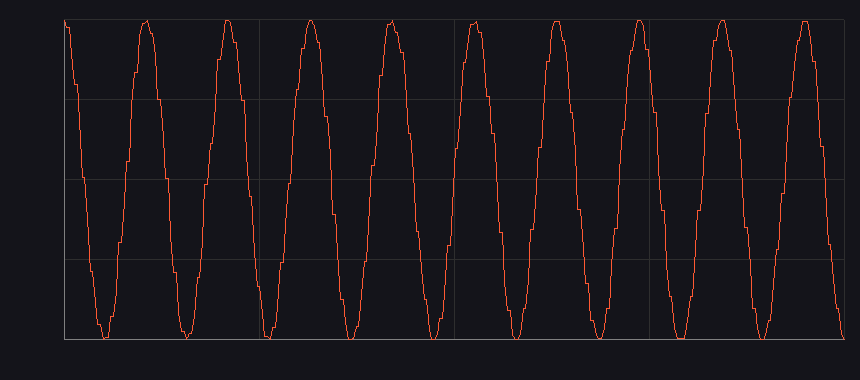
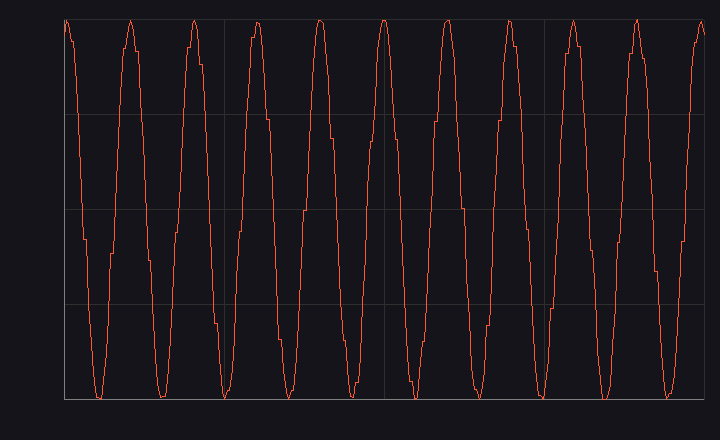
docs: comprehensive explanatory README + refresh/regenerate all visuals
Rewrite the README into a broad, explanatory document and bring every image current, all
generated by the add-on itself (headless), at consistent resolution.

README:
- New "How it works" section explaining the layered architecture (data model on Object.optics,
  tracer, mounts/alignment, sensor window, render, optics_api + MCP bridge).
- New Gallery up top (interferogram / 2-D fringes / Malus; Newton's rings / aberrated /
  corrected wavefront).
- Physics layer reframed around oracle verification; white-light packet figure added.
- Expanded quick-start (Assembly & Parts, Adaptive Optics, MCP bridge), worked example, agent/MCP
  section, and a fuller optics_api surface (swap_part, place_relative, ao_* ...).
- Roadmap notes the larger AO variants.

Visuals (all add-on output):
- hero.png (new): Mach-Zehnder beam loop, beams baked to emission tubes, EEVEE, tight frame.
- michelson-render.png: re-rendered (tight frame, thick glowing beams) for the worked example.
- interferogram.png / malus.png: regenerated via the Scan+Plot plotter (real Michelson OPD sweep;
  cos^2 Malus).
- white-light-fringes.png (new): broadband Michelson -> coherence-limited packet.
- (fringe-2d / newton-rings / wavefront-aberrated / wavefront-flattened were added in prior commits.)

diff --git a/README.md b/README.md
@@ -2,57 +2,89 @@
 
 > *"See a need, fill a need."* — Bigweld, *Robots* (2005)
 
-A Blender **4.2+ / 5.x** add-on for **designing, simulating, aligning, and rendering
-optical setups** — lasers, mirrors, beam splitters, lenses, waveplates, polarizers,
-dichroics, gratings, retroreflectors, isolators, cavities, detectors — backed by a real
-**optical-physics engine**: polarization (Jones/Stokes), interference (live fringes),
-wavelength-selective optics, Gaussian-beam propagation, wavefront sensing & adaptive optics,
-and analytic quantum readouts.
+A Blender **4.2+ / 5.x** add-on for **designing, simulating, aligning, and rendering optical
+setups** — lasers, mirrors, beam splitters, lenses, waveplates, polarizers, dichroics, gratings,
+retroreflectors, isolators, cavities, deformable mirrors, wavefront sensors, and detectors — on
+top of a real **optical-physics engine**: polarization (Jones/Stokes), interference (live
+fringes), wavelength-selective optics, Gaussian-beam propagation, wavefront sensing & adaptive
+optics, and analytic quantum readouts.
 
-Everything is driven from **View3D ▸ Sidebar ▸ Optics**. An optional Python API
-(`optics_api`) lets a script — or an AI agent (e.g. Claude via the Blender MCP) — drive
-the same core headlessly.
+Everything is driven from **View3D ▸ Sidebar ▸ Optics**. An optional Python API (`optics_api`)
+and a localhost **MCP bridge** let a script — or an AI agent (e.g. Claude via the Blender MCP) —
+drive the same core headlessly.
 
 <p align="center">
-  <img src="docs/img/michelson-render.png" width="75%" alt="A Michelson interferometer built, traced and rendered in Blender">
+  <img src="docs/img/hero.png" width="78%" alt="A Mach-Zehnder interferometer built and traced in Blender, beams baked to glowing emission tubes">
 </p>
 
-| Live interferogram | Detector fringe pattern | Malus' law |
+---
+
+## Gallery
+
+Everything below is produced by the add-on itself — a viewport beam trace baked to emission
+tubes, the Scan + Plot operator, the Detector Fringe Image, and the live sensor window exported
+to PNG. No external plotting or compositing.
+
+| Interferogram | 2-D fringes (tilted) | Malus' law |
 |:---:|:---:|:---:|
 | ![interferogram](docs/img/interferogram.png) | ![2-D fringes](docs/img/fringe-2d.png) | ![Malus curve](docs/img/malus.png) |
-| Michelson intensity vs. optical path difference | 2-D fringes on a tilted detector | polarizer transmission ∝ cos²θ |
+| Michelson intensity vs. optical path difference | straight fringes with the Gaussian-beam apodization envelope | polarizer transmission ∝ cos²θ |
 
 | Newton's rings | Aberrated wavefront | Corrected wavefront |
 |:---:|:---:|:---:|
 | ![Newton's rings](docs/img/newton-rings.png) | ![aberrated wavefront](docs/img/wavefront-aberrated.png) | ![flattened wavefront](docs/img/wavefront-flattened.png) |
-| lens vs. flat reference → concentric rings (Gaussian wavefront) | AO sensor: injected defocus + astigmatism + coma (RMS 0.56 λ) | after the closed loop → flat (RMS 0.00 λ) |
-
-*All generated by the add-on — a Cycles render, the Scan + Plot operator, the Detector Fringe
-Image, a polarizer sweep, the **Newton's Rings** example, and the **adaptive-optics** wavefront
-sensor before/after closing the loop (the last three painted live into the bottom-left sensor
-window, then exported to PNG).*
+| a lens vs. a flat reference → concentric rings (the Gaussian-wavefront model) | adaptive-optics sensor: injected defocus + astigmatism + coma (RMS 0.56 λ) | after the closed loop → flat (RMS 0.00 λ) |
 
 ---
 
 ## Why this exists
 
-While driving Blender through the MCP, an AI agent literally **could not see** the
-optics: where each mirror's center was, which way its surface normal pointed, where a beam
-would actually go. The optical truth was hidden behind object origins and arbitrary
-rotations, so alignment was guesswork.
+While driving Blender through the MCP, an AI agent literally **could not see** the optics: where
+each mirror's center was, which way its surface normal pointed, where a beam would actually go.
+The optical truth was hidden behind object origins and arbitrary rotations, so alignment was
+guesswork.
 
-So — *see a need, fill a need.* This add-on makes the geometry explicit: every element
-carries its **ports** (entry / exit / reflective surfaces) as world-space **position and
-normal**, recoverable no matter where the object origin sits:
+So — *see a need, fill a need.* This add-on makes the geometry explicit. Every element carries
+its **ports** (entry / exit / reflective surfaces) as world-space **position and normal**,
+recoverable no matter where the object's origin sits or how its mesh is rotated:
 
 ```text
 world_position = obj.matrix_world @ local_position
 world_normal   = (obj.matrix_world.to_3x3() @ local_normal).normalized()
 ```
 
-On that foundation it builds a live beam tracer, kinematic-mount alignment, a physics
-layer, and a render pipeline — all readable by both humans (the Optics panel) and agents
-(`optics_api` returns the full state: ports, normals, beam path, detector readings).
+On that foundation it builds a live beam tracer, kinematic-mount alignment, a physics layer, and
+a render pipeline — all readable by both humans (the Optics panel) and agents (`optics_api`
+returns the full state: ports, world normals, beam path, detector readings).
+
+---
+
+## How it works
+
+The add-on separates the **optical slot** from the **physical part**, and keeps the truth in a
+few small, inspectable layers:
+
+- **Data model** — optical state lives on `Object.optics` (a PropertyGroup), *independent of the
+  mesh*. It holds the element type, ports, base pose, degrees of freedom, mount, and physics
+  parameters. Because ports are stored in local space, world ports follow `matrix_world`
+  automatically — the same math the tracer and alignment rely on. Swapping an element's mesh
+  keeps its optical slot intact.
+- **Tracer** (`tracer.py`) — sequential ray tracing. Each ray carries its Jones vector, optical
+  path length, Gaussian `q`-parameter, a 3-D complex field `evec`, and a Zernike wavefront-error
+  vector `aberr`. Elements dispatch on type (reflect / split / transmit / diffract / aberrate /
+  correct / terminate). It is drawn as a **GPU overlay** that updates as you drag parts — no mesh,
+  no undo spam.
+- **Mounts & alignment** (`mounts.py`, `alignment.py`) — `compose_pose` writes `matrix_world`
+  *absolutely* from a base pose + kinematic DOFs (tip / tilt / rotate / translate), each with a
+  real range. **Auto-align** drives only the knobs and reports *"move the post"* when a target is
+  out of a mount's reach. Relative placement and assemblies feed the base pose / an anchor.
+- **Physics** (`physics.py`) — a dependency-free module (see below) with a closed-form self-test.
+- **Sensor window** (`monitor.py`) — a framed picture-in-picture panel docked to the viewport's
+  bottom-left, rebuilt every redraw, showing what a detector *records*.
+- **Render** (`render.py`, `bake.py`) — bake beams to emission tubes, set a camera + backdrop,
+  one-click EEVEE / Cycles.
+- **API & bridge** (`optics_api.py`, `bridge.py`) — a JSON-able facade over the same core, plus a
+  localhost socket server so an external MCP process can drive a *running* scene.
 
 ---
 
@@ -67,39 +99,44 @@ layer, and a render pipeline — all readable by both humans (the Optics panel) 
   rebuilt every redraw so it's always live and never goes stale. Per-detector sensor model
   (resolution, pixel pitch, exposure / read-noise / saturation); render-independent (it never
   appears in an F12 render) yet savable to PNG on demand.
-- **Kinematic mounts** — rig a static vendor mesh with the tip/tilt/rotate/translate knobs
-  it lacks, each with a real range; **auto-align** drives only the knobs and says
-  *"move the post"* when a target is out of reach.
-- **Opto-mechanical limits** — warns when a post pulls out of its holder or a cage rod
-  leaves its bore.
+- **Kinematic mounts** — rig a static vendor mesh with the tip/tilt/rotate/translate knobs it
+  lacks, each with a real range; **auto-align** drives only the knobs and says *"move the post"*
+  when a target is out of reach.
+- **Opto-mechanical limits** — warns when a post pulls out of its holder or a cage rod leaves
+  its bore.
 - **Alignment report** — per-element position/angle residuals with OK/Warn/Bad states and
   viewport color feedback.
-- **Component library** — a broad built-in catalog of **38 real vendor parts** (Thorlabs &
-  co.) addressable by part number. Import your own CAD (STL/OBJ natively, **STEP/IGES via
-  FreeCAD**), or let an entry fall back to correct **generic mesh-free geometry** when the
-  CAD isn't on disk — so every catalog entry is usable immediately.
+- **Component library** — a broad built-in catalog of **38 real vendor parts** (Thorlabs & co.)
+  addressable by part number. Import your own CAD (STL/OBJ natively, **STEP/IGES via FreeCAD**),
+  or let an entry fall back to correct **generic mesh-free geometry** when the CAD isn't on disk —
+  so every catalog entry is usable immediately.
 - **Swappable parts** — fill or replace an element's mesh from the catalog or an imported file
   while keeping its optical *slot* (ports, pose, mount, beam role); do it for one element or in
   **bulk** (by type / mount / name prefix).
 - **Relative positioning & assemblies** — place an element a set distance from another along a
   chosen axis or its outgoing beam, group parts under an **anchor** that moves them together, or
   link "B follows A" so a dependent element tracks its reference live.
-- **Render helper** — one-click EEVEE preview / Cycles final, camera presets
-  (Hero/Top/Front/Side), beam baking, and **background presets** (Dark / Black / White-paper
-  / **Transparent** alpha-PNG for figures).
-- **Canonical examples** — one-click Mach-Zehnder, Michelson, Hong-Ou-Mandel,
-  Bell/entanglement, **adaptive-optics**, and **Newton's-rings** (a lens-vs-flat near-focus
-  interferometer whose curved wavefront paints concentric rings) setups, built from portable
-  generic components.
-- **Adaptive optics (closed loop)** — a modal (Zernike) wavefront sensor + deformable mirror:
-  an aberrator injects wavefront error, the sensor reconstructs it (false-color map + RMS in the
-  bottom-left sensor window), and a closed-loop integrator drives the deformable mirror until the
-  wavefront flattens (RMS → 0) — live, inside the single-ray model.
+- **Render helper** — one-click EEVEE preview / Cycles final, camera presets (Hero/Top/Front/Side),
+  beam baking, and **background presets** (Dark / Black / White-paper / **Transparent** alpha-PNG
+  for figures).
+- **Canonical examples** — one-click Mach-Zehnder, Michelson, Hong-Ou-Mandel, Bell/entanglement,
+  **adaptive-optics**, and **Newton's-rings** setups, built from portable generic components.
+- **Adaptive optics (closed loop)** — a modal (Zernike) wavefront sensor + deformable mirror: an
+  aberrator injects wavefront error, the sensor reconstructs it (false-color map + RMS in the
+  sensor window), and a closed-loop integrator drives the deformable mirror until the wavefront
+  flattens (RMS → 0) — live, inside the single-ray model.
 - **Scriptable & agent-drivable** — every core action is exposed through `optics_api` (JSON-able
   state in, structured results out) and a localhost **MCP bridge**, so a script or an AI agent can
   build, align, swap, position, scan, and render a *running* scene headlessly.
 
-### Physics layer
+---
+
+## Physics layer
+
+The physics lives in a single dependency-free `physics.py`. Every formula in the table is
+checked against an external **symbolic + numerical oracle** (the `physicist` verifier: units,
+symbolic identities, limits, and known input → known answer), so the engine is not
+"dimensionally plausible" — it is *verified*.
 
 | Layer | Models | Validated against |
 |-------|--------|-------------------|
@@ -111,13 +148,16 @@ layer, and a render pipeline — all readable by both humans (the Optics panel) 
 | **Advanced** | **exact vectorial (3-D)** Fresnel at an arbitrary mirror tilt (true s/p phase, linear→elliptical), white-light fringe packets, detector **camera model** (shot/read noise, saturation), one-way **isolators**, **Fabry-Pérot** cavities (Airy/finesse/FSR) | Fresnel Brewster/normal, Airy comb, finesse |
 | **Quantum (analytic)** | Hong-Ou-Mandel dip, Bell **CHSH** | R(0)=0, \|S\|=2√2 |
 
-Analysis tools — **Scan + Plot** (interferogram / Malus / spectrum), **Detector Fringe
-Image** (2-D pattern), **Power Budget**, **Quantum Readout** — paint their result into the
-live **sensor window** docked to the viewport's bottom-left corner (and still save a PNG +
-CSV), so everything stays in one place, on-screen, and queryable.
+Analysis tools — **Scan + Plot** (interferogram / Malus / spectrum), **Detector Fringe Image**
+(2-D pattern), **Power Budget**, **Quantum Readout** — paint their result into the live sensor
+window (and still save a PNG + CSV), so everything stays in one place, on-screen, and queryable.
+A finite source linewidth localizes the fringes into a **white-light packet** near zero OPD:
 
-The physics lives in a dependency-free `physics.py` with a closed-form self-test you can run
-with a bare interpreter:
+<p align="center">
+  <img src="docs/img/white-light-fringes.png" width="60%" alt="White-light fringes: a coherence-limited packet near zero optical path difference">
+</p>
+
+Run the self-test with a bare interpreter (no Blender needed):
 
 ```bash
 python3 optical_alignment_sim/physics.py   # -> PHYSICS SELFTEST PASSED
@@ -128,8 +168,8 @@ python3 optical_alignment_sim/physics.py   # -> PHYSICS SELFTEST PASSED
 ## Install
 
 1. Download `optical_alignment_sim-<version>.zip` (or build it, below).
-2. In Blender: **drag the zip onto the window**, or *Edit ▸ Preferences ▸ Add-ons ▸ Install
-   from Disk…* and pick the zip.
+2. In Blender: **drag the zip onto the window**, or *Edit ▸ Preferences ▸ Add-ons ▸ Install from
+   Disk…* and pick the zip.
 3. Open the **Optics** tab in the 3D viewport sidebar (press `N`).
 
 Build the zip yourself:
@@ -143,32 +183,41 @@ blender --command extension validate optical_alignment_sim
 
 ## Quick start
 
-- **Examples ▸** pick *Michelson* (or any of the six) to spawn a full setup with the live
-  beam overlay.
-- **Element** — select an object, *Tag as Optical Element*, then *Auto-Detect Ports* (by
-  name) or *Add Port from Face* (any mesh); *Normalize Imported CAD* fixes units/scale.
-  Per-type parameters appear here: source polarization, waveplate angle, mirror coating, …
-- **Mount & Adjustment** — *Apply Mount Preset* (e.g. KM100CP/M), *Set Coarse Pose*, then
-  drive the tip/tilt knobs.
-- **Simulation** — toggle *Live simulation*; the beam updates as you move parts.
-- **Alignment Report** — *Update Report* / *Align* / *Align All*; detectors show measured
-  power, polarization, and fringe visibility.
+- **Examples ▸** pick *Michelson* (or any of the six) to spawn a full setup with the live beam
+  overlay.
+- **Element** — select an object, *Tag as Optical Element*, then *Auto-Detect Ports* (by name) or
+  *Add Port from Face* (any mesh); *Normalize Imported CAD* fixes units/scale. Per-type parameters
+  appear here: source polarization, waveplate angle, mirror coating, lens focal length, …
+- **Mount & Adjustment** — *Apply Mount Preset* (e.g. KM100CP/M), *Set Coarse Pose*, then drive
+  the tip/tilt knobs.
+- **Assembly & Parts** — *Swap Part* (catalog / file, single or bulk), *Place Relative*,
+  *Create / Clear Anchor*.
+- **Simulation** — toggle *Live simulation*; the beam updates as you move parts. *Start MCP Bridge*
+  to let an external agent drive the scene.
+- **Alignment Report** — *Update Report* / *Align* / *Align All*; detectors show measured power,
+  polarization, and fringe visibility. Tick *Sensor window* to dock the live recorded pattern
+  bottom-left.
+- **Adaptive Optics** — *Run AO Loop* to sense a wavefront and drive a deformable mirror flat.
 - **Render** — pick a camera + **Background** preset, then *EEVEE Preview* / *Cycles Final*.
 
-## Worked example: a Michelson interferometer
+### Worked example: a Michelson interferometer
 
-1. **Optics ▸ Examples ▸ Michelson** → laser → beam splitter → two arms → detector, with the
-   live red beam path.
+<p align="center">
+  <img src="docs/img/michelson-render.png" width="60%" alt="A Michelson interferometer rendered in Blender">
+</p>
+
+1. **Optics ▸ Examples ▸ Michelson** → laser → beam splitter → two arms → detector, with the live
+   red beam path.
 2. Select the beam splitter, nudge a tip knob → watch the recombined beam break; **Align All**
    walks it back onto the detector.
 3. Select the moving-arm mirror, **Scan + Plot ▸ OPD stage** → the **interferogram** (a clean
-   cosine of intensity vs. path difference) appears in the live sensor window (bottom-left) and
-   saves a PNG + CSV. Open a detector's **Live sensor window** to watch its recorded field go
-   bright ↔ dark as you nudge the stage.
-4. Give the laser a **bandwidth** (e.g. 550 ± 75 nm) and scan again → the fringes localize
-   into a **white-light packet** near zero OPD.
-5. Tilt a mirror and run **Detector Fringe Image** → the 2-D straight-fringe pattern, with an
-   optional camera noise/exposure model.
+   cosine of intensity vs. path difference) appears in the live sensor window and saves a PNG +
+   CSV. Open a detector's **Live sensor window** to watch its recorded field go bright ↔ dark as
+   you nudge the stage.
+4. Give the laser a **bandwidth** (e.g. 550 ± 90 nm) and scan again → the fringes localize into a
+   **white-light packet** near zero OPD.
+5. Tilt a mirror and run **Detector Fringe Image** → the 2-D straight-fringe pattern, now with the
+   Gaussian-beam apodization envelope and an optional camera noise/exposure model.
 
 Try also **Examples ▸ Newton's Rings** (a lens vs. a flat reference → live concentric rings) and
 **Adaptive Optics** (run the loop from the *Adaptive Optics* panel to drive a wavefront's RMS to
@@ -180,31 +229,57 @@ The same, headlessly, via the agent/script API:
 import optics_api
 
 optics_api.build_example("michelson")   # full setup + live beam
-optics_api.align_all()                   # auto-tune the knobs to the detector
-state = optics_api.get_state()           # ports, world normals, beam path, detector readings
+optics_api.align_all()                    # auto-tune the knobs to the detector
+state = optics_api.get_state()            # ports, world normals, beam path, detector readings
 optics_api.render(preset="final", camera="hero", filepath="/tmp/michelson.png")
+
+# adaptive optics: read the residual wavefront, then close the loop
+optics_api.build_example("adaptive_optics")
+optics_api.ao_measure("AO_WFS")                       # {zernike: [...], rms: 0.559}
+optics_api.ao_close_loop("AO_WFS", "AO_DM", gain=0.5, iters=15)   # rms 0.559 -> ~0
 ```
+
+Other API entry points: `trace_beam`, `tag_element`, `set_mount`, `set_param`, `add_component`,
+`swap_part`, `place_relative`, `scan`, `get_wavefront`, `ao_command`, `bake_beams`, `clear_beams`,
+`check_mechanics`.
 
 ---
 
 ## Component library & meshes
 
-Vendor 3-D models (Thorlabs, Edmund, …) are **not bundled** — they are the vendors'
-intellectual property. The add-on ships only metadata (element type, port geometry, mount
-parameters). To use real parts:
+Vendor 3-D models (Thorlabs, Edmund, …) are **not bundled** — they are the vendors' intellectual
+property. The add-on ships only metadata (element type, port geometry, mount parameters). To use
+real parts:
 
 1. Download the CAD from the vendor into a folder.
 2. Set it as **Component mesh folder** in the add-on preferences.
 3. STL/OBJ import directly; for STEP/IGES, set the **FreeCAD command** (`freecadcmd`) in
    preferences and the add-on converts on import (`tools/freecad_convert.py` for CLI use).
 
-The built-in catalog (38 real parts — lasers, mirrors, prism/corner-cube mirrors, beam
-splitters, dichroics, gratings, retroreflectors, lenses, waveplates, polarizers, filters,
-attenuators, isolators, apertures, pinholes, fiber collimators, photodiodes, power-meter
-heads) references meshes by filename. Without the CAD, **Add Component** still spawns a
-correct generic element, so the catalog is fully usable out of the box.
+The built-in catalog (38 real parts — lasers, mirrors, prism/corner-cube mirrors, beam splitters,
+dichroics, gratings, retroreflectors, lenses, waveplates, polarizers, filters, attenuators,
+isolators, apertures, pinholes, fiber collimators, photodiodes, power-meter heads) references
+meshes by filename. Without the CAD, **Add Component** still spawns a correct generic element, so
+the catalog is fully usable out of the box.
 
-## Examples (standalone scripts)
+---
+
+## Driving it from an agent (MCP)
+
+The whole point: an AI agent can *see* and *drive* a running optical scene. A dedicated **MCP
+server** connects to a localhost socket bridge built into the add-on — build setups, read the
+full optical state (ports, world normals, beam path, detector readings), align, swap parts,
+position elements, scan, run the AO loop, and render.
+
+1. In Blender: **Optics ▸ Simulation ▸ Start MCP Bridge** (the bridge auto-exposes every public
+   `optics_api` function over localhost).
+2. Run the server in [`mcp/`](mcp/README.md) and wire it into your MCP client.
+
+For scripts and headless pipelines, `optics_api` is importable directly inside Blender
+(`blender --background --python your_script.py`) and is aliased to a stable top-level name when the
+add-on is enabled.
+
+### Examples (standalone scripts)
 
 `examples/` contains builders that run with or without the add-on installed:
 
@@ -212,26 +287,26 @@ correct generic element, so the catalog is fully usable out of the box.
 blender --background --python examples/mach_zehnder.py
 ```
 
-## Driving it from an MCP client
-
-A dedicated **MCP server** lets an agent drive a *running* Blender scene over a localhost
-socket bridge built into the add-on — build setups, read the full optical state, align,
-swap parts, position elements, scan, render. Start the bridge (**Optics ▸ Simulation ▸
-Start MCP Bridge**) and run the server in [`mcp/`](mcp/README.md).
+---
 
 ## Roadmap
 
 - CAD-assisted DOF extraction from STEP geometry + datasheets
 - POV-Ray / Asymptote export for publication figures
+- Larger adaptive-optics variants: a literal Shack-Hartmann lenslet sensor, a zonal
+  actuator-influence deformable mirror, and surface-generated higher-order aberrations
 
 *Recently shipped:* exact **vectorial (3-D) polarization** for off-axis Fresnel, the **MCP
 bridge** above, a modal **adaptive-optics loop** (Zernike wavefront sensor + deformable mirror +
 closed loop), **Gaussian-wavefront fringes** (curvature + apodization + Gouy + oblique-detector
-cos θ), and a **Newton's-rings** example that paints that curved wavefront as live concentric rings.
+cos θ), and a **Newton's-rings** example that paints that curved wavefront as live concentric
+rings.
+
+---
 
 ## License & credits
 
-**GPL-3.0-or-later.** See [`LICENSE`](LICENSE). Vendor CAD/meshes are not included and remain
-the property of their respective owners; this project ships only original metadata and tooling.
+**GPL-3.0-or-later.** See [`LICENSE`](LICENSE). Vendor CAD/meshes are not included and remain the
+property of their respective owners; this project ships only original metadata and tooling.
 
 Built in the spirit of Bigweld's maxim from *Robots* (2005) — **"See a need, fill a need."**
